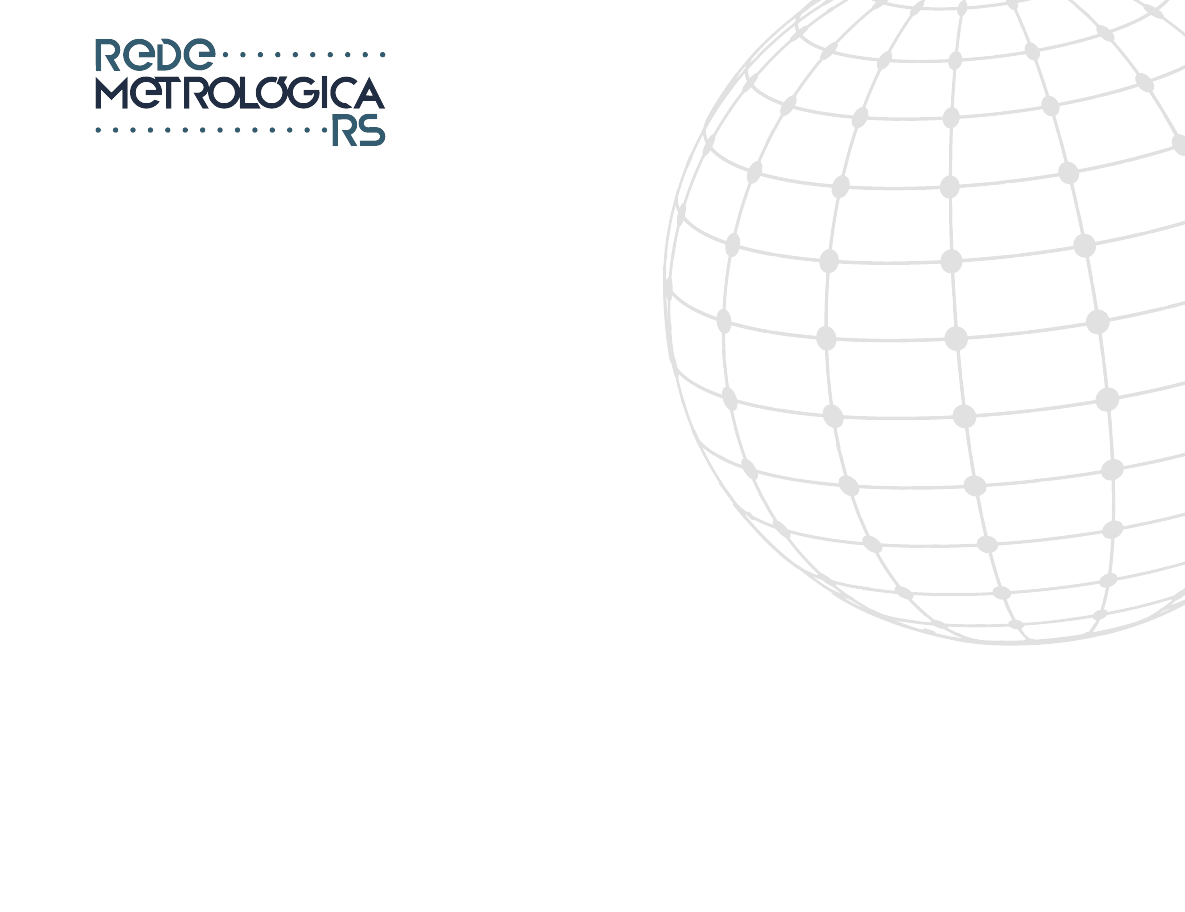
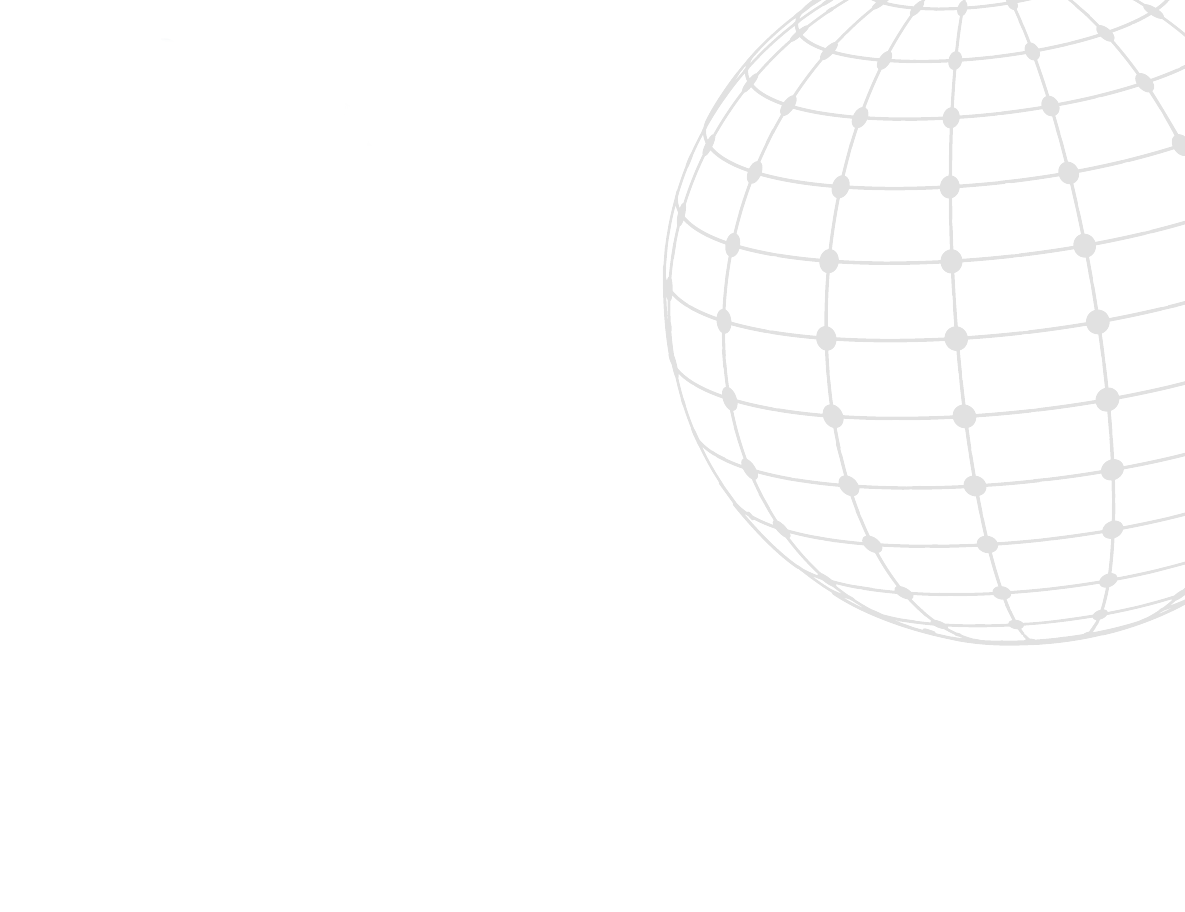
Envio de certificados em PEP - 201

Changed region(s): [[0.0624, 0.0307, 0.3435, 0.1842]]

diff --git a/resources/views/certificados/certificado-interlab.blade.php b/resources/views/certificados/certificado-interlab.blade.php
@@ -1,47 +1,87 @@
-
 <!DOCTYPE html>
 <html>
+
 <head>
     <title>Certificado de Participação</title>
+    <link rel="stylesheet" href="https://stackpath.bootstrapcdn.com/bootstrap/4.5.2/css/bootstrap.min.css">
     <style>
+        @page {
+            size: A4 landscape;
+            height: 100%;
+            position: relative;
+            margin: 0;
+        }
+
         body {
-            font-family: sans-serif;
-            text-align: center;
-            margin: 40px;
+            font-family: 'Helvetica', 'Arial', sans-serif;
         }
+
         .certificate-container {
-            border: 10px solid #ccc;
-            padding: 50px;
-            width: 800px;
-            margin: 0 auto;
+            padding-bottom: 40mm; /* ajuste conforme a altura do seu rodapé */
+            box-sizing: border-box;
+            width: 100%;
+            height: 100%;
+            background-image: url("{{ resource_path('images/certificados/marcadagua.png') }}");
+            background-size: cover;
+            background-repeat: no-repeat;
+            background-position: center;
         }
-        .logo {
-            width: 150px;
-            margin-bottom: 20px;
+
+         .footer {
+            position: fixed;
+            bottom: 0mm;   
+            left: 0;
+            width: 100%;
         }
-        h1 {
-            font-size: 50px;
-            color: #333;
-        }
-        h2 {
-            font-size: 25px;
-            color: #555;
-        }
-        p {
-            font-size: 20px;
-            color: #666;
+
+        .footer img {
+            width: 100%;
+            display: block;
         }
     </style>
 </head>
-<body>
-    <div class="certificate-container">
 
-        {{-- <img src="{{ public_path('images/logo.png') }}" alt="Logo" class="logo"> --}}
-        <h1>Certificado de Participação</h1>
-        <h2>A Rede Metrológica de Minas Gerais confere este certificado a</h2>
-        <p><strong>{{ $participante->pessoa->nome_razao }}</strong></p>
-        <p>pela sua participação no programa de interlaboratório</p>
+<body class="text-center bg-white">
+    <div class="certificate-container p-2">
+        <div class="text-center mb-3">
+            <img src="{{ resource_path('images/certificados/LOGO_REDE_COLOR.png') }}" alt="Logo" style="width: 300px;">
+        </div>
+
+        <div class="mt-2">
+            <h1 class="display-4 font-weight-bold">CERTIFICADO</h1>
+            <h2 class="h2 font-weight-bold my-3">Participação</h2>
+
+            <p class="h3">Associação Rede de Metrologia e Ensaios do RS certifica que</p>
+
+            <p class="h4 font-weight-bold my-3">{{ $participante->laboratorio->nome }}</p>
+
+            <p class="h3">Participou do</p>
+
+            <p class="h4 font-weight-bold mt-3 mb-3">{{ $participante->agendaInterlab->interlab->nome }}</p>
+            @php
+                setlocale(LC_TIME, 'pt_BR.UTF-8');
+                $data = \Carbon\Carbon::now();
+                $dataFormatada =
+                    'Porto Alegre, ' .
+                    $data->format('d') .
+                    ' de ' .
+                    ucfirst(strftime('%B', $data->getTimestamp())) .
+                    ' de ' .
+                    $data->format('Y');
+            @endphp
+
+            <p class="h6 mt-5">{{ $dataFormatada }}</p>
+
+            <div class="mt-3">
+                <img src="{{ resource_path('images/certificados/assinatura.jpg') }}" alt="Assinatura">
+            </div>
+        </div>
         
     </div>
+    <div class="footer">
+        <img src="{{ resource_path('images/certificados/assets_antigos/rodape_atualizado.png') }}"
+             alt="Rodapé">
+    </div>
 </body>
+
 </html>

diff --git a/app/Livewire/Interlab/GerarCertificadoButton.php b/app/Livewire/Interlab/GerarCertificadoButton.php
@@ -2,12 +2,13 @@
 
 namespace App\Livewire\Interlab;
 
+use Livewire\Component;
+use Illuminate\Support\Str;
 use App\Models\InterlabInscrito;
+use Spatie\LaravelPdf\Facades\Pdf;
 use Illuminate\Support\Facades\Mail;
 use App\Mail\CertificadoInterlabMail;
 use Illuminate\Support\Facades\Storage;
-use Livewire\Component;
-use Spatie\LaravelPdf\Facades\Pdf;
 
 class GerarCertificadoButton extends Component
 {
@@ -20,22 +21,33 @@ class GerarCertificadoButton extends Component
 
     public function gerarCertificado()
     {
-        $participante = InterlabInscrito::findOrFail($this->participanteId);
-       
+        $participante = InterlabInscrito::with(['laboratorio','agendaInterlab.interlab'])->findOrFail($this->participanteId);
 
-        $tempPath = 'temp/' . uniqid() . '.pdf';
+        $labNameSlug = Str::slug($participante->laboratorio->nome);
+        $fileName = 'certificado_interlab_' . $labNameSlug . '_' . $participante->agendaInterlab->interlab->id . '.pdf';
+        $Path = 'public/docs/certificados/' . $fileName;
 
-        
+        //update em interlabinscrito com certificado_emitido = data atual e certificado_path = $fileName;
+        $participante->certificado_emitido = now();
+        $participante->certificado_path = $fileName;
+        $participante->save();
+
+        // Remove o arquivo existente, se houver
+        if (Storage::exists($Path)) {
+            Storage::delete($Path);
+        }
+
         Pdf::view('certificados.certificado-interlab', [
             'participante' => $participante,
-            
-        ])->save(Storage::path($tempPath));
-
-        Mail::to($participante->pessoa->email)->send(new CertificadoInterlabMail($participante, Storage::path($tempPath)));
-
-        Storage::delete($tempPath);
-
+        ])
+        ->save(Storage::path($Path));
+        
+        Mail::to($participante->laboratorio->email)->send(new CertificadoInterlabMail($participante, Storage::path($Path)));
+        
         return redirect(request()->header('Referer'))->with('success', 'Certificado enviado com sucesso.');
+        
+        //download do arquivo pdf no navegador
+        // return response()->download(Storage::path($Path), 'certificado-interlab.pdf')->deleteFileAfterSend(true);
     }
 
     public function render()

diff --git a/resources/views/emails/certificado-interlab.blade.php b/resources/views/emails/certificado-interlab.blade.php
@@ -1,13 +1,28 @@
 <!DOCTYPE html>
-<html>
+<html lang="pt-br">
 <head>
-    <title>Certificado de Participação</title>
+  <meta charset="UTF-8">
 </head>
-<body>
-    <p>Olá, {{ $participante->pessoa->nome_razao }}!</p>
-    <p>É com grande satisfação que enviamos o seu certificado de participação no programa de interlaboratório .</p>
-    <p>O certificado está anexo a este e-mail.</p>
-    <p>Atenciosamente,</p>
-    <p>Equipe da Rede Metrológica</p>
+<body style="background-color: #D4DADE; color: #5a6576; font: 14px/1.4 Helvetica, Arial, sans-serif; margin: 0; padding: 0;">
+  <div style="max-width: 600px; margin: 0 auto; padding: 20px;">
+    <div style="margin-top: 1.8rem; margin-bottom: 1.8rem;">
+      <figure style="text-align: center;">
+        <img src="http://localhost/build/images/site/LOGO_REDE_COLOR.png" alt="Rede Metrológica RS" width="140px" style="max-width: 50%">
+      </figure>
+    </div>
+
+    <div style="background-color: #fff; padding: 20px; border-radius: 3px; box-shadow: 0 2px 4px rgba(0, 0, 0, 0.1);">
+      <h3>Certificado de Participação - {{ $participante->agendaInterlab->interlab->nome }}</h3>
+      {{-- <p>Olá {{ $participante->laboratorio->responsavel_tecnico }},</p> --}}
+      <p>É com grande satisfação que enviamos em anexo o Certificado de Participação - {{ $participante->agendaInterlab->interlab->nome }} .</p>
+      
+      <br>
+      <p>
+        Atenciosamente,<br>
+        Equipe Rede Metrológica RS
+      </p>
+    </div>
+    <div style="text-align: center;"><span style="font-size: 12px;">© 2025 Sistema Rede Metrológica RS.</span></div>
+  </div>
 </body>
 </html>

diff --git a/app/Mail/CertificadoInterlabMail.php b/app/Mail/CertificadoInterlabMail.php
@@ -32,7 +32,7 @@ class CertificadoInterlabMail extends Mailable
     public function envelope(): Envelope
     { 
         return new Envelope(
-            subject: 'Seu Certificado de Participação - Rede Metrológica',
+            subject: 'Certificado de Participação - '. $this->participante->agendaInterlab->interlab->nome,
         );
     }
 
